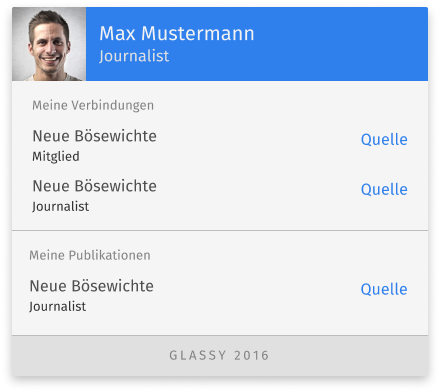
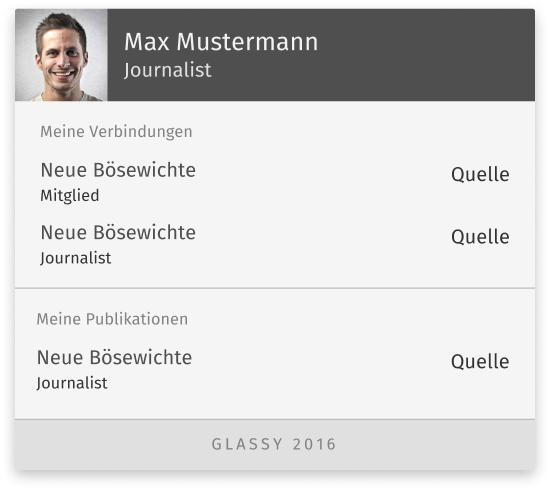
language ger>eng

diff --git a/client/main.html b/client/main.html
@@ -21,31 +21,28 @@
     </div>
     <div class="row">
       <div class="subtext grey-text text-lighten-2 col s4 m4 l6 offset-l3 center-align">
-        Glassy bietet Journalisten, Bloggern, Vloggern, Podcastern und vielen weiteren Personen der digitalen Öffentlichkeit die Möglichkeit, einfach und schnell einen Disclaimer zu erstellen und einzubinden.
+        Glassy provides journalists, bloggers, podcasters and any other people in the
+        digital public the opportunity to publish a self-disclosure quickly and easily.
       </div>
     </div>
   </div>
 </template>
 
 <template name="one">
-<h1>Angaben zur Person</h1>
-<h2>Schritt 1 von 3</h2>
+<h1>Personal Information</h1>
+<h2>Just two more steps to go.</h2>
 <div class="divider"></div>
 <form>
   <div class="spacer-top row">
-    <div class="input-field col s12 m12 l5 offset-l1 left-align">
-      <input id="first_name" type="text" class="validate" required>
-      <label for="first_name">Vorname</label>
-    </div>
-    <div class="input-field col s12 m12 l5 left-align">
-      <input id="last_name" type="text" class="validate" required>
-      <label for="last_name">Nachname</label>
+    <div class="input-field col s12 m12 l10 offset-l1 left-align">
+      <input id="name" type="text" class="validate" required>
+      <label for="name">Name</label>
     </div>
   </div>
   <div class="row small">
     <div class="input-field col s12 m12 l10 offset-l1 left-align">
       <input id="job" type="text" class="validate" required>
-      <label for="job">Beruf</label>
+      <label for="job">Job</label>
     </div>
   </div>
   <div class="row small">
@@ -67,9 +64,11 @@
     </div>
   </div>
   <div class="row">
+    <a href="{{pathFor route='two'}}">
       <button class="spacer-top btn indigo waves-effect waves-light" type="submit" name="action">
-        Weiter
+        Alright, next!
       </button>
+    </a>
   </div>
   </form>
   <div class="spacer-big row">
@@ -80,29 +79,31 @@
 </template>
 
 <template name="two">
-<h1>Deine Verbindungen</h1>
-<h2>Schritt 2 von 3</h2>
+<h1>Your Connections</h1>
+<h2>Such as memberships or any other activity which could influence your work.</h2>
 <div class="divider"></div>
 <div class="spacer-top row">
   <div class="input-field col s12 m12 l10 offset-l1 left-align">
     <input id="connection_name" type="text" class="validate">
-    <label for="connection_name">Name der Verbindung</label>
+    <label for="connection_name">Name of connection</label>
   </div>
+</div>
+<div class="row small">
   <div class="input-field col s12 m12 l10 offset-l1 left-align">
     <input id="connection_type" type="text" class="validate">
-    <label for="connection_type">Art der Verbindung (z.B. Mitglied)</label>
+    <label for="connection_type">Type of connection</label>
   </div>
 </div>
 <div class="row small">
   <div class="input-field col s12 m12 l10 offset-l1 left-align">
     <input id="connection_website" type="url" class="validate">
-    <label for="connection_website">Website</label>
+    <label for="connection_website">Links</label>
   </div>
 </div>
 <div class="row">
   <a href="{{pathFor route='three'}}">
     <button class="spacer-top btn indigo waves-effect waves-light" type="submit" name="action">
-      Weiter
+      Take me to the finish!
     </button>
   </a>
 </div>
@@ -114,34 +115,38 @@
 </template>
 
 <template name="three">
-<h1>Deine Publikationen</h1>
-<h2>Schritt 3 von 3</h2>
+<h1>Your publications</h1>
+<h2>Where do you publish on the web? (You can leave this blank)</h2>
 <div class="divider"></div>
 <div class="spacer-top row">
   <div class="input-field col s12 m12 l10 offset-l1 left-align">
     <input id="last_name" type="text" class="validate">
-    <label for="last_name">Name der Publikation</label>
+    <label for="last_name">Name of the publication</label>
   </div>
+</div>
+<div class="row small">
   <div class="input-field col s12 m12 l10 offset-l1 left-align">
     <input id="website" type="url" class="validate">
-    <label for="website">Website</label>
+    <label for="website">Link</label>
   </div>
+</div>
+<div class="row">
   <a href="{{pathFor route='final'}}">
     <button class="spacer-top btn indigo waves-effect waves-light" type="submit" name="action">
-      Weiter
+      THAT'S IT!
     </button>
   </a>
-  <div class="row">
-    <div class="col s12 center-align">
-      <i class="material-icons">share</i>
-    </div>
+</div>
+<div class="spacer-big row">
+  <div class="col s12 center-align">
+    <i class="material-icons">share</i>
   </div>
 </div>
 </template>
 
 <template name="final">
-<h1>Voilà! Fertig.</h1>
-<h2>Hier sind deine Daten.</h2>
+<h1>Et Voilà! Here you go.</h1>
+<h2>Copy, paste and share your self-disclosure.</h2>
 <div class="divider"></div>
 <img src="Group.png" class="spacer-top">
 <div class="spacer-top row">

diff --git a/client/sass/general.scss b/client/sass/general.scss
@@ -1,21 +1,21 @@
 // <3
 
 body {
-  background: url("bg.jpg");
-  //@extend .indigo;
+  //background: url("back.jpg");
+  @extend .indigo;
   font-family: 'Fira Sans';
   font-size: 18px;
 }
 
 h1 {
-  font-size: 1em;
-  margin: 2em 0 .5em;
+  font-size: 1.25em;
+  margin: 2em 0 .4em;
 }
 
 h2 {
   font-size: .8em;
   @extend .grey-text;
-  margin-top: .5em;
+  margin-top: .4em;
 }
 
 strong {

diff --git a/client/sass/components.scss b/client/sass/components.scss
@@ -6,7 +6,7 @@
   font-weight: bold;
   font-size: 2.5em;
   letter-spacing: .2em;
-  margin: .75em 0 0;
+  margin: 1em 0 .25em;
 }
 
 .main-container {
@@ -25,6 +25,7 @@
 .subtext {
   font-size: .8em;
   margin: 1.75em 0;
+  line-height: 1.75em;
 }
 
 .small {
